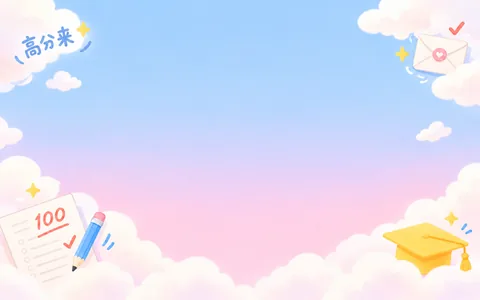
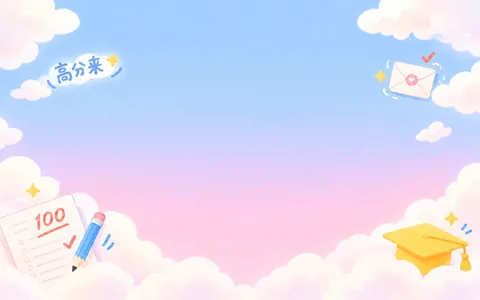
fix: keep good-luck lettering visible below the app header

diff --git a/appearance-studio.css b/appearance-studio.css
@@ -1248,6 +1248,7 @@ html[data-st-art="illustrated"] :is(.goal-bar-v33,.goal-hero-v33,.page-head,.gra
 /* Exam good-luck stationery, paired with the existing graduation pony. */
 [data-scene="study-shore"]{--scene-image:url("./assets/themes/art/exam-good-luck.webp");--scene-size:cover;--scene-position:center}
 @media(min-width:900px){[data-scene="study-shore"]{--scene-image:url("./assets/themes/art/exam-good-luck-wide.webp");--scene-position:center}}
+@media(min-width:900px){html[data-st-look="study-shore"] #content:before{height:128px}}
 .st-wallpaper:is([data-bg="study-shore"],[data-preset="study-shore"]){grid-column:1/-1}
 .st-wallpaper:is([data-bg="study-shore"],[data-preset="study-shore"]) .st-wallpaper-art{aspect-ratio:16/7!important}
 .st-wallpaper:is([data-bg="study-shore"],[data-preset="study-shore"]) .st-wallpaper-art img{object-position:center 65%}

diff --git a/appearance-qa/frame.html b/appearance-qa/frame.html
@@ -34,7 +34,7 @@ window.fetch=async function(url,opts){
   <link rel="stylesheet" href="../pwa-install.css?v=4b3373a685" />
   <link rel="stylesheet" href="../mobile-fix.css?v=20261026-entry-scroll" />
   <link rel="stylesheet" href="../typography.css?v=f3c4053b02" />
-  <link rel="stylesheet" href="../appearance-studio.css?v=6328faf620">
+  <link rel="stylesheet" href="../appearance-studio.css?v=89a93c1b4e">
 </head>
 <body>
   <!-- v2.0: subject-list mapping, weighted total overrides, bundled data reads -->

diff --git a/index.html b/index.html
@@ -17,7 +17,7 @@
   <link rel="stylesheet" href="./pwa-install.css?v=4b3373a685" />
   <link rel="stylesheet" href="./mobile-fix.css?v=20261026-entry-scroll" />
   <link rel="stylesheet" href="./typography.css?v=f3c4053b02" />
-  <link rel="stylesheet" href="./appearance-studio.css?v=6328faf620">
+  <link rel="stylesheet" href="./appearance-studio.css?v=89a93c1b4e">
 </head>
 <body>
   <!-- v2.0: subject-list mapping, weighted total overrides, bundled data reads -->
